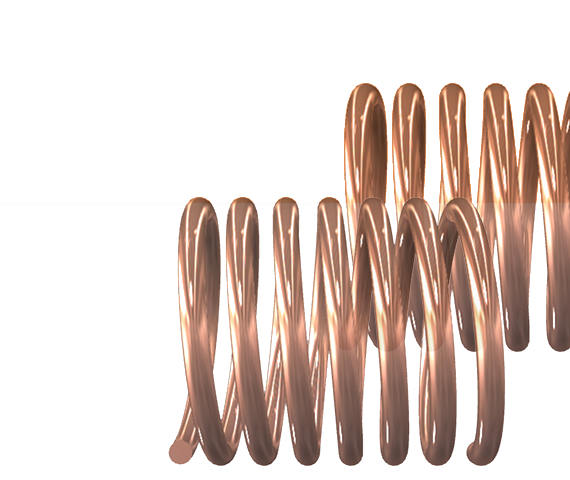
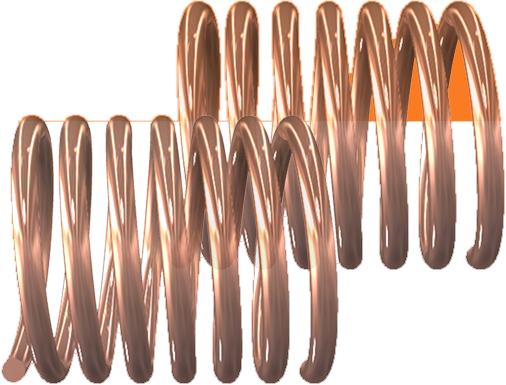
fix: 社員ストーリーのコイル装飾を修正し、画面下部に応募バーを追加
## コイル装飾（社員ストーリー右上）

完成デザインではコイルが上のオレンジ帯に重なって配置されているが、
実装では2つの問題で崩れていた。

- 切り出した素材の右側が途中で切れており、左側に余分な透明部分があった
  → 完成デザインから輪郭を切り直した（506×385、背景を透過）
- セクションに overflow: hidden が掛かっていて、上にはみ出す部分が
  切り落とされていた
  → セクションの hidden を外し、代わりにステージ側で overflow-x: clip する
    （広い画面で左右の余白に装飾がはみ出さないようにするため）

コイルの位置・大きさは完成画像と 1px 以内で一致する（PC・SP とも）。

## 画面下部の応募バー

スクロール中も常に出しておく応募導線を追加した。文言・色・アイコンは
ヘッダーの CTA に合わせ、どちらも応募フォーム（#entry）へスクロールする。
ステージの拡大率の影響を受けないようステージの外に置き、フッターを
隠さないよう body の下に同じ高さの余白を確保している。

Claude-Session: https://claude.ai/code/session_01LvmqaLhaXmSKR2YyibuZLe

diff --git a/src/components/StickyCta.module.css b/src/components/StickyCta.module.css
@@ -1,0 +1,133 @@
+.bar {
+  position: fixed;
+  left: 0;
+  right: 0;
+  bottom: 0;
+  z-index: 100;
+  background: rgba(255, 255, 255, 0.94);
+  backdrop-filter: blur(6px);
+  box-shadow: 0 -2px 14px rgba(0, 0, 0, 0.14);
+  padding-bottom: env(safe-area-inset-bottom, 0px);
+}
+
+.inner {
+  display: flex;
+  align-items: stretch;
+  justify-content: center;
+  gap: 12px;
+  height: 50px;
+  margin: 0 auto;
+  padding: 7px 0;
+  box-sizing: content-box;
+}
+
+.visit,
+.apply {
+  display: flex;
+  align-items: center;
+  height: 100%;
+}
+
+.visit {
+  width: 250px;
+  padding: 0 14px 0 16px;
+  border: 1px solid var(--red);
+  background: var(--white);
+  color: var(--text);
+}
+
+.visitText {
+  display: flex;
+  flex-direction: column;
+  justify-content: center;
+  flex: 1;
+  gap: 2px;
+}
+
+.visitMain {
+  font-size: 15px;
+  font-weight: 700;
+  line-height: 1.1;
+  letter-spacing: 0.01em;
+}
+
+.visitSub {
+  font-size: 9.5px;
+  font-weight: 500;
+  line-height: 1.1;
+  letter-spacing: 0.01em;
+}
+
+.apply {
+  width: 203px;
+  padding: 0 14px 0 18px;
+  background: var(--red);
+  color: var(--white);
+  gap: 12px;
+}
+
+.mail {
+  width: 21px;
+  height: 16px;
+  flex: none;
+}
+
+.applyMain {
+  flex: 1;
+  font-size: 16px;
+  font-weight: 700;
+  letter-spacing: 0.02em;
+}
+
+.divider {
+  width: 1px;
+  height: 26px;
+  margin: 0 12px 0 8px;
+  background: currentColor;
+  opacity: 0.55;
+  flex: none;
+}
+
+.apply .divider { opacity: 0.7; }
+
+.arrow {
+  width: 15px;
+  height: 15px;
+  flex: none;
+}
+
+/* ---------------- SP ---------------- */
+@media (max-width: 768px) {
+  .inner {
+    gap: 8px;
+    height: 46px;
+    padding: 6px 10px;
+  }
+
+  .visit,
+  .apply {
+    width: auto;
+    min-width: 0;
+    justify-content: center;
+  }
+
+  .visit { flex: 1; }
+  .apply { flex: 1.15; }
+
+
+  .visit { padding: 0 8px; }
+  .visitText { gap: 0; align-items: center; flex: none; }
+  .visitMain { font-size: 13px; line-height: 1.2; }
+  .visitSub { display: none; }
+
+  .apply {
+    padding: 0 8px;
+    gap: 6px;
+  }
+
+  .applyMain { font-size: 14px; flex: none; }
+  .mail { width: 16px; height: 12px; }
+
+  .divider { height: 20px; margin: 0 8px 0 6px; }
+  .arrow { width: 13px; height: 13px; }
+}

diff --git a/src/components/StickyCta.tsx b/src/components/StickyCta.tsx
@@ -1,0 +1,32 @@
+import { ArrowUpRight, MailIcon } from "./Icons";
+import s from "./StickyCta.module.css";
+
+/**
+ * 画面下部に出しっぱなしにする応募導線。
+ * 完成デザインには無い追加要素だが、色・文言・アイコンはヘッダーの
+ * CTA に揃えている。ステージの zoom の影響を受けないよう、
+ * レイアウト上は .stage の外に置く。
+ */
+export default function StickyCta() {
+  return (
+    <div className={s.bar}>
+      <div className={s.inner}>
+        <a className={s.visit} href="#entry">
+          <span className={s.visitText}>
+            <span className={s.visitMain}>まずは会社見学する</span>
+            <span className={s.visitSub}>見学だけ／話を聞くだけでも大丈夫です</span>
+          </span>
+          <span className={s.divider} aria-hidden="true" />
+          <ArrowUpRight className={s.arrow} />
+        </a>
+
+        <a className={s.apply} href="#entry">
+          <MailIcon className={s.mail} />
+          <span className={s.applyMain}>応募する</span>
+          <span className={s.divider} aria-hidden="true" />
+          <ArrowUpRight className={s.arrow} />
+        </a>
+      </div>
+    </div>
+  );
+}

diff --git a/src/app/globals.css b/src/app/globals.css
@@ -68,6 +68,9 @@ img {
     width: 1080px;
     margin-inline: auto;
     zoom: var(--stage-scale, 1);
+    /* 画面幅より狭いステージなので、はみ出しはステージ端で切る
+       （clip なのでスクロールコンテナにはならず、上下のはみ出しは残る） */
+    overflow-x: clip;
   }
 }
 
@@ -103,4 +106,16 @@ ul, ol {
 html,
 body {
   overflow-x: clip;
+}
+
+/* 画面下部に出しっぱなしにする応募バーのぶん、
+   ページの一番下に余白を確保する（バーがフッターを隠さないように） */
+body {
+  padding-bottom: 64px;
+}
+
+@media (max-width: 768px) {
+  body {
+    padding-bottom: 58px;
+  }
 }

diff --git a/src/components/EmployeeStories.module.css b/src/components/EmployeeStories.module.css
@@ -2,7 +2,6 @@
   position: relative;
   background: var(--white);
   padding-bottom: 49px;
-  overflow: hidden;
 }
 
 .headBlock {
@@ -24,9 +23,9 @@
 
 .coil {
   position: absolute;
-  right: 100px;
-  top: -102px;
-  width: 285px;
+  right: 49px;
+  top: -64.9px;
+  width: 253px;
   height: auto;
 }
 
@@ -156,7 +155,7 @@
   .headBlock { width: 234px; height: 152px; }
   .headText { padding-left: 22px; font-size: 27px; }
 
-  .coil { right: 22px; top: -66px; width: 160px; }
+  .coil { right: 6.7px; top: -37.8px; width: 101.4px; }
 
   .itv1 { margin-top: 0; }
   .itv2 { margin-top: 48px; }

diff --git a/src/app/layout.tsx b/src/app/layout.tsx
@@ -1,6 +1,7 @@
 import type { Metadata, Viewport } from "next";
 import { Noto_Sans_JP, Roboto } from "next/font/google";
 import "./globals.css";
+import StickyCta from "@/components/StickyCta";
 
 const notoSansJP = Noto_Sans_JP({
   subsets: ["latin"],
@@ -82,6 +83,7 @@ export default function RootLayout({
       <body>
         <script dangerouslySetInnerHTML={{ __html: STAGE_SCALE }} />
         <div className="stage">{children}</div>
+        <StickyCta />
       </body>
     </html>
   );

diff --git a/src/components/EmployeeStories.tsx b/src/components/EmployeeStories.tsx
@@ -13,8 +13,8 @@ export default function EmployeeStories() {
         className={s.coil}
         src="/assets/decoration/coil-story.png"
         alt=""
-        width={570}
-        height={480}
+        width={506}
+        height={385}
       />
 
       {/* ---- Interview 01 ---- */}
